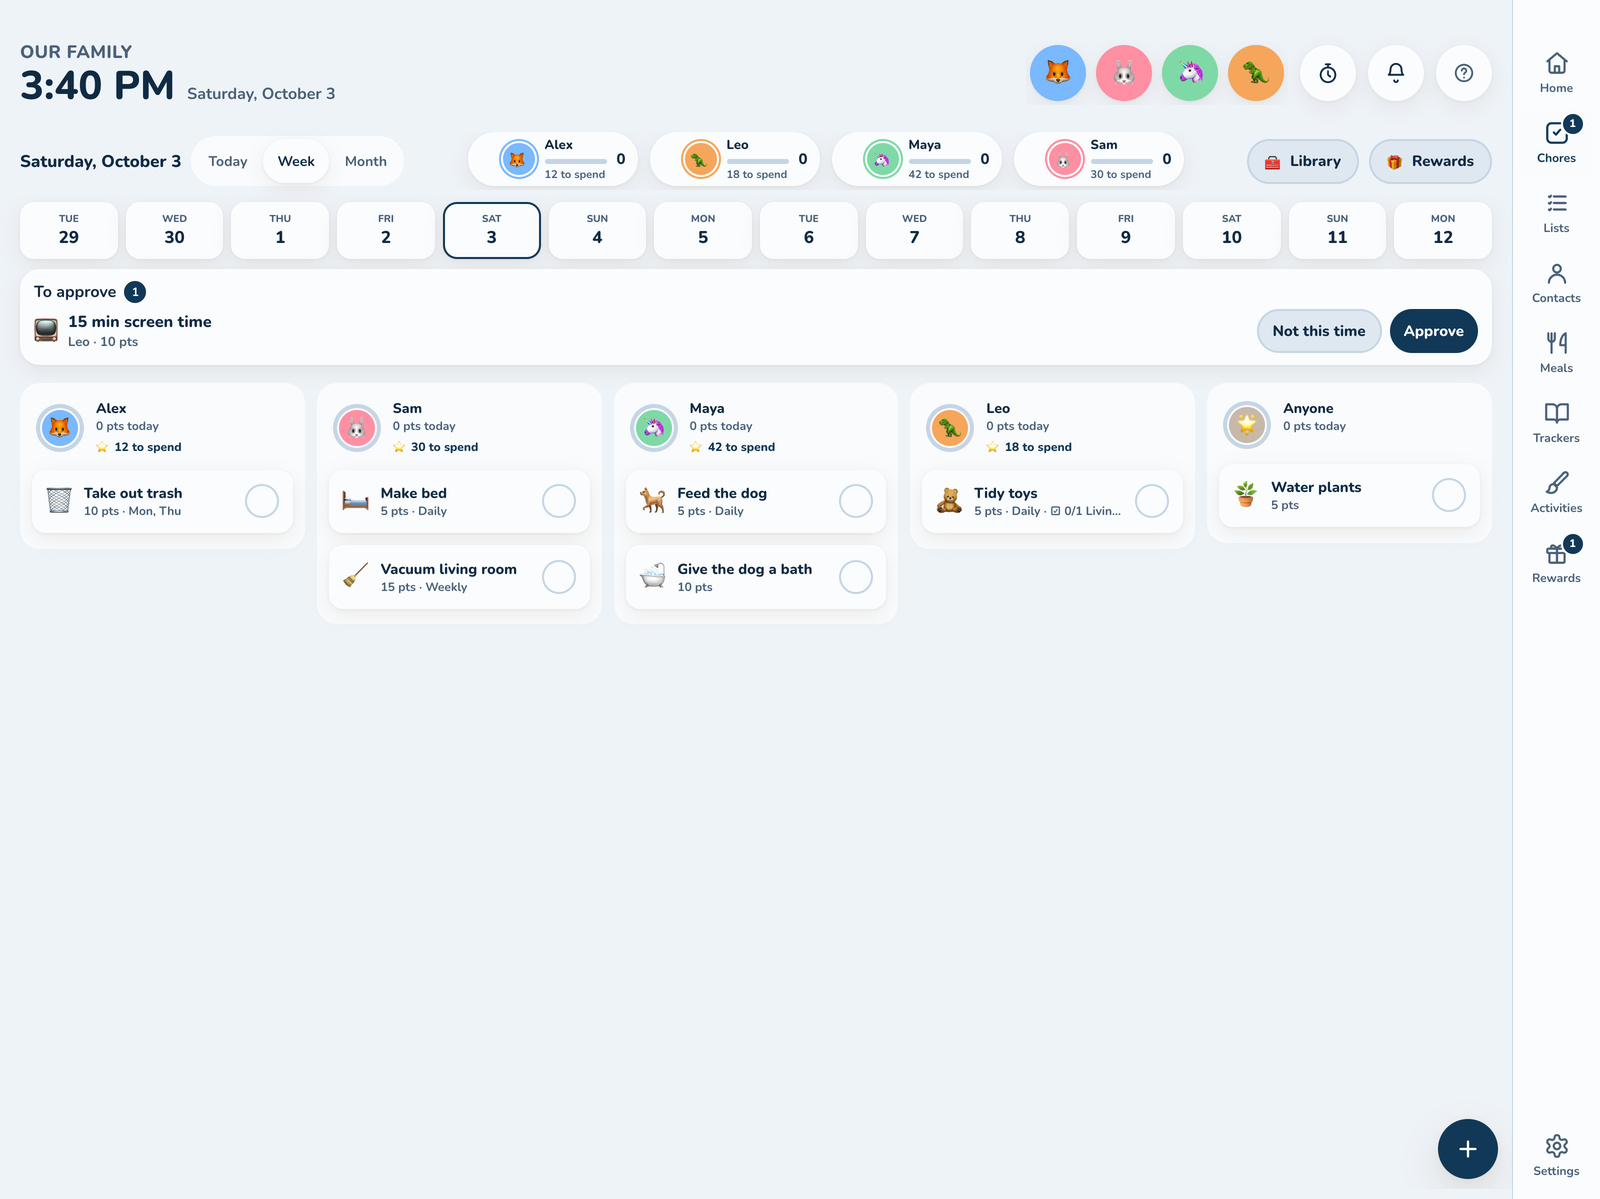
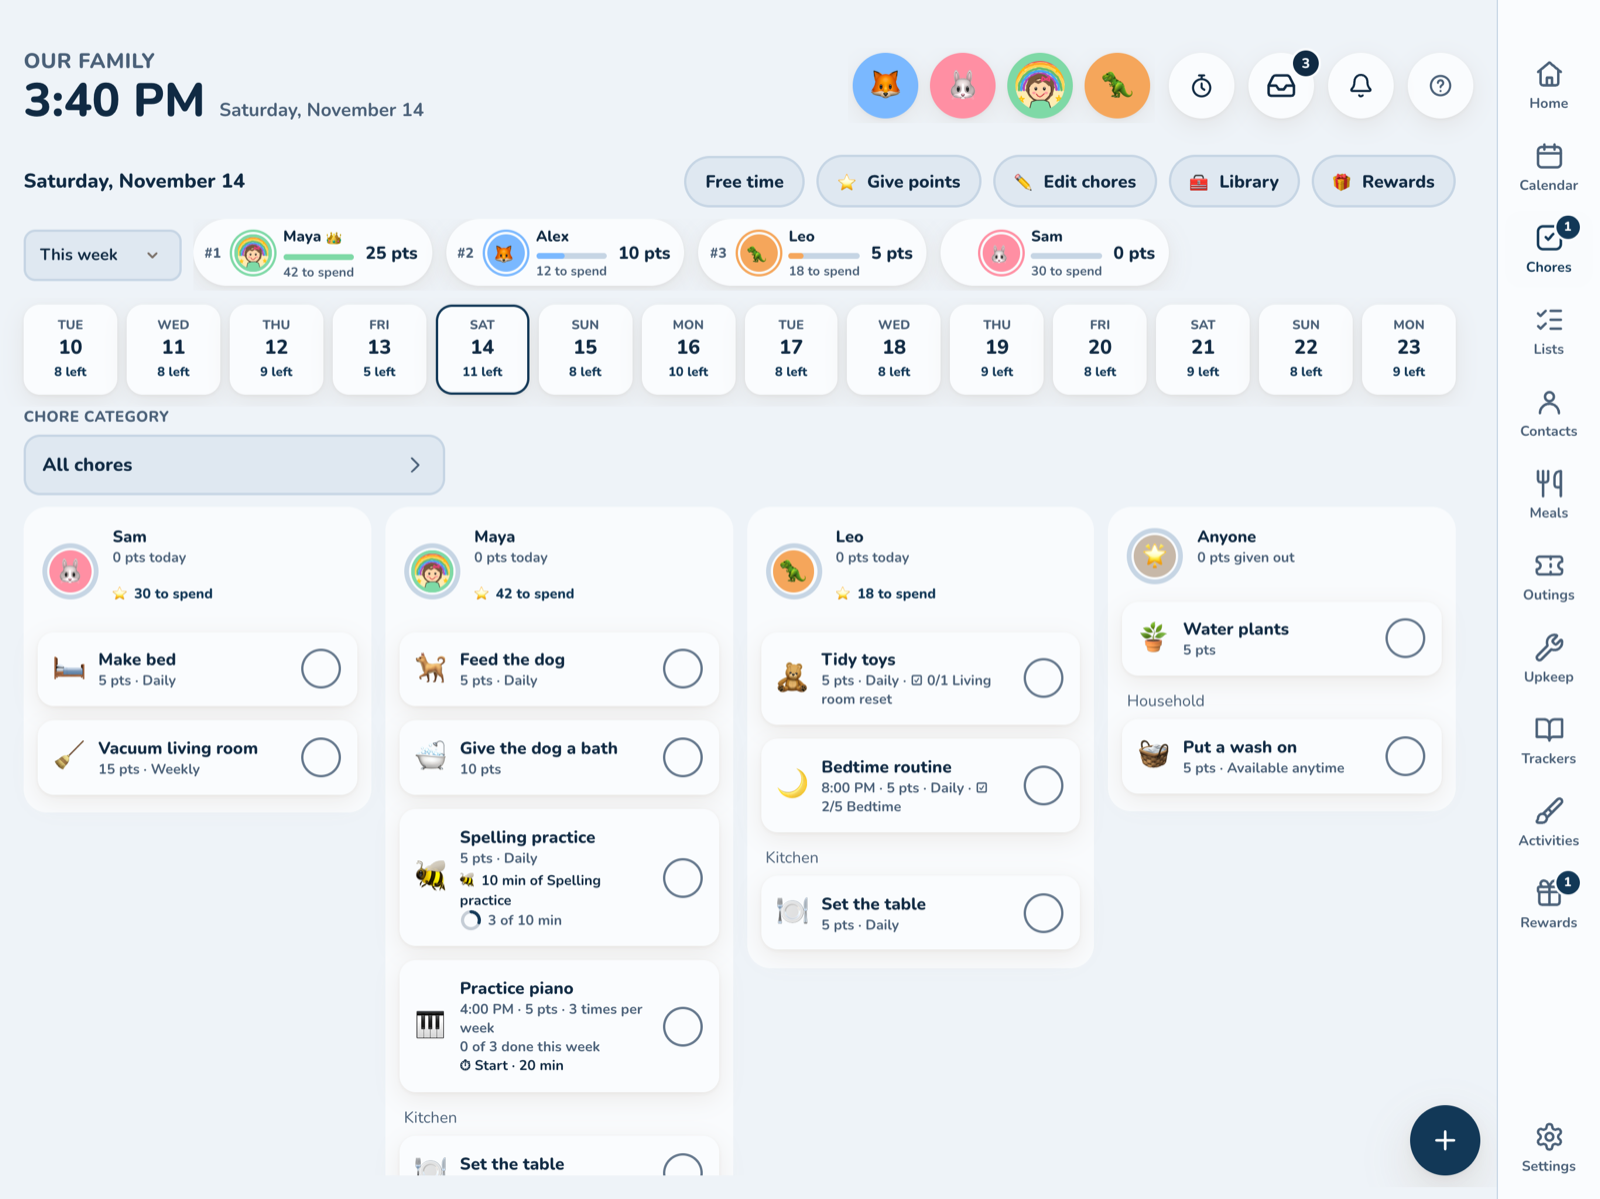
docs: refresh screenshots for the current layout and add inbox screenshots
Reshot the board, calendar, chores, lists, appearance, event, family,
newscast, groceries and photos screenshots from the demo, which still
showed early October layouts. The wall board shots show Today at a
glance above the cards. Add the inbox and its sort sheet to the Inbox
page.

diff --git a/docs/using/inbox.md b/docs/using/inbox.md
@@ -6,6 +6,8 @@ The inbox is for grown-ups: it's on a parent's device, not on wall screens set t
 
 ## Jot it down
 
+<img src="../screenshots/phone-inbox.png" width="300" alt="The inbox on a phone: a Jot it down box with Save, and three things to sort, each with when it was saved" />
+
 Tap the **inbox** button at the top of the screen, beside the bell. It's there on every screen. Its small number is how many things are waiting. It's the same color as the text, not the bell's red, because nothing in it is urgent.
 
 Type, then **Save** or press Enter. The box clears and stays ready for the next one. There's no day, person, list or type to pick first. If saving doesn't work (no connection, say), what you typed goes back in the box. Something typed but not saved asks before the inbox closes.
@@ -13,6 +15,8 @@ Type, then **Save** or press Enter. The box clears and stays ready for the next 
 You can also add to it from an AI assistant connected to Kinwall ("Add 'permission slip for Friday' to my inbox"). See [MCP](../integrations/mcp.md).
 
 ## Sort it out later
+
+<img src="../screenshots/phone-inbox-sort.png" width="300" alt="Sorting Permission slip for Friday on a phone: made into a task on Weekend To-Dos, due Friday, Nov 20, with Not needed, Later and Add task" />
 
 Tap a thought to sort it. What you wrote stays at the top, and you pick what it becomes:
 
